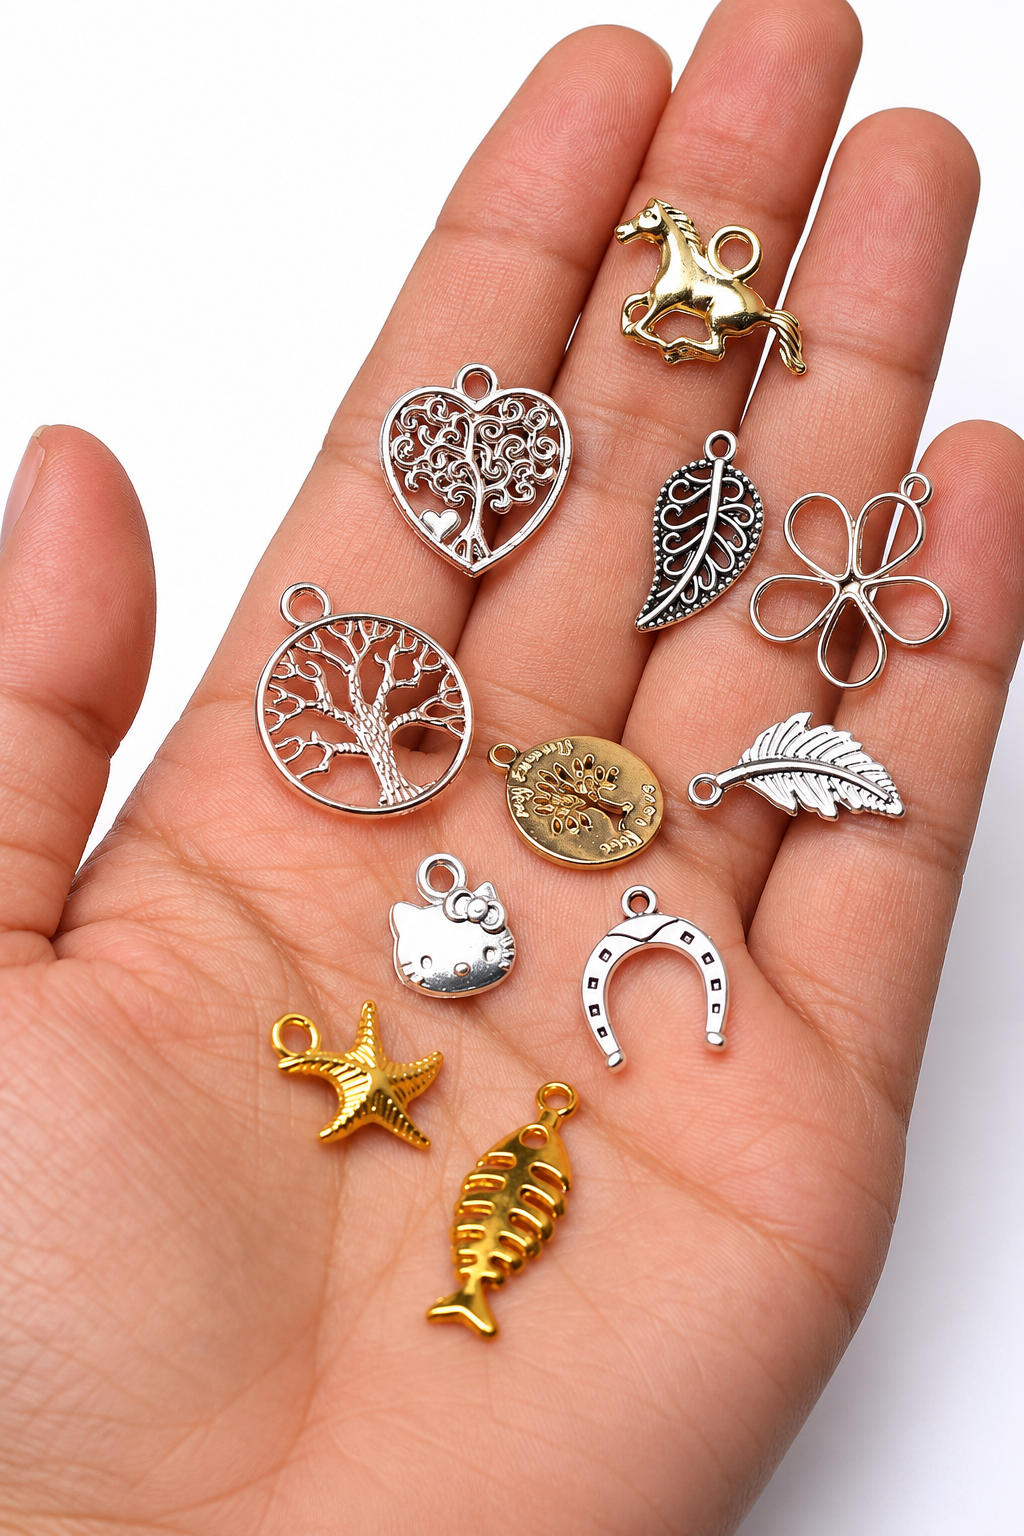
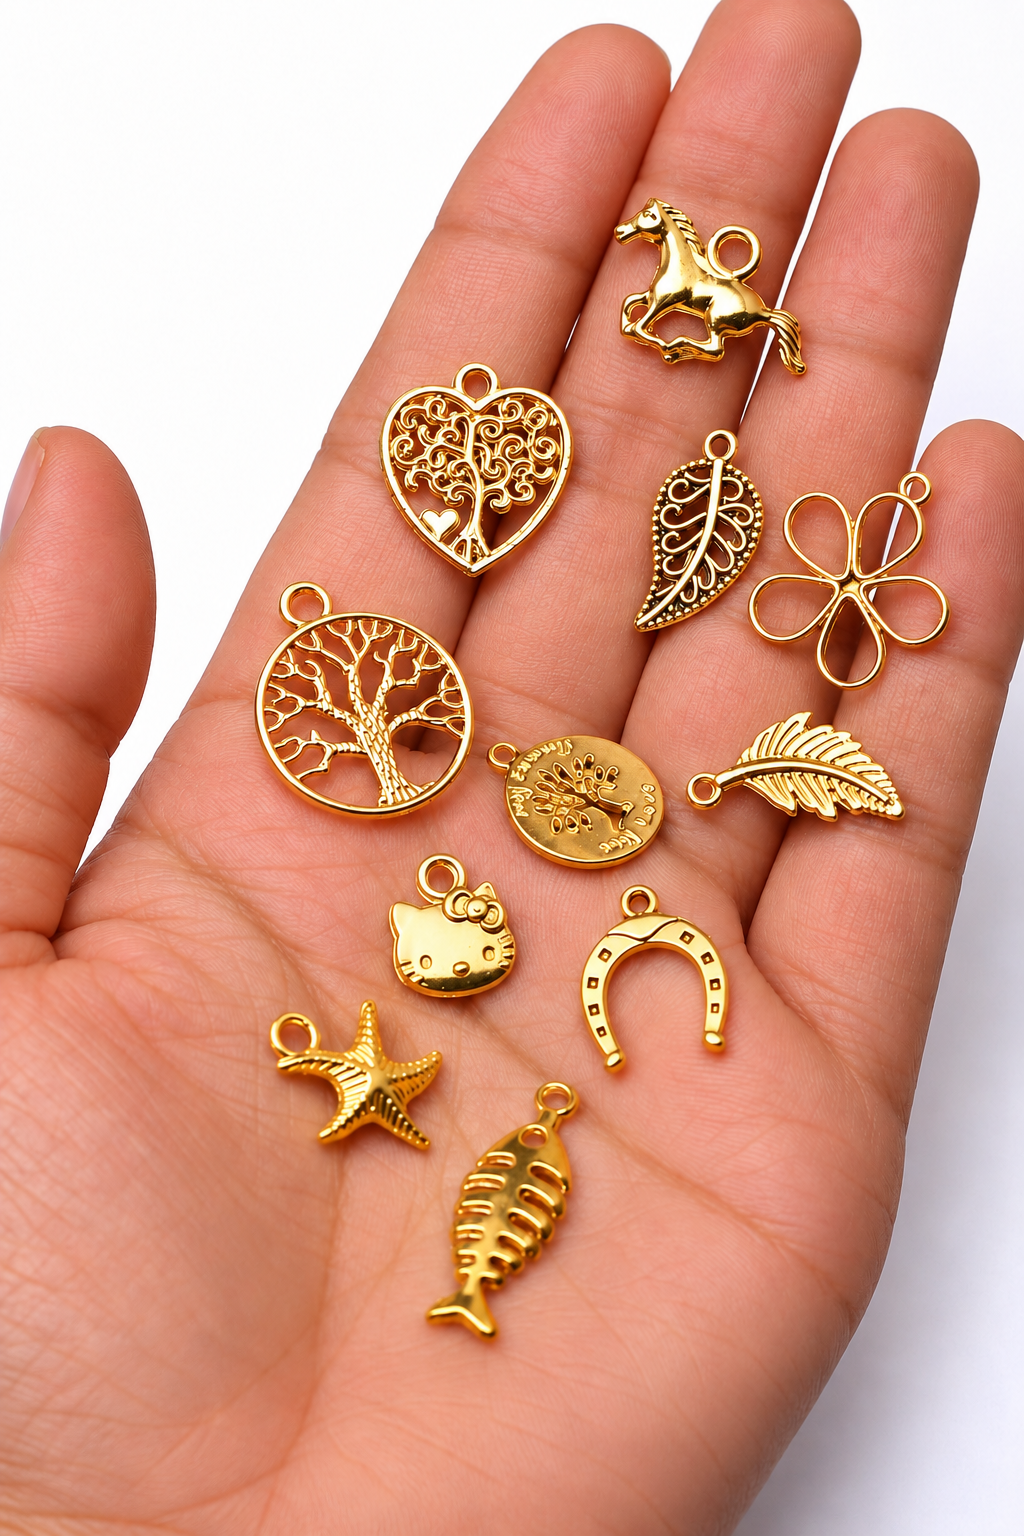
compleetd product detail page

diff --git a/src/data/products.js b/src/data/products.js
@@ -1,31 +1,28 @@
-// Sample products. Later this list will come from your backend (PostgreSQL) instead.
-// categoryId matches the ids in categories.js.  addedAt = date added (used for "Newest").
-// Put each photo in public/images/products/ using the file name written here.
 const products = [
-  { id: 1,  name: 'Initial Disc Necklace',             categoryId: 1, price: 6990,  isNew: true,  addedAt: '2026-10-20', image: '/images/products/initial-necklace-1.webp' },
-  { id: 2,  name: 'Rose Charm Bracelet',               categoryId: 6, price: 5490,  isNew: false, addedAt: '2026-09-02', image: '/images/products/charms-1.png' },
-  { id: 3,  name: 'Engraved Name Disc Earrings',       categoryId: 2, price: 8490,  isNew: true,  addedAt: '2026-10-18', image: '/images/products/engraved-1.png' },
-  { id: 4,  name: 'Celestial Birthstone Necklace',     categoryId: 3, price: 5990,  isNew: true,  addedAt: '2026-10-15', image: '/images/products/birthstone-1.png' },
-  { id: 5,  name: 'Engraved Heart Pendant',            categoryId: 6, price: 6290,  isNew: false, addedAt: '2026-08-21', image: '/images/products/charms-2.png' },
-  { id: 6,  name: 'The Floral Keepsake Gift Set',      categoryId: 4, price: 6890,  isNew: false, addedAt: '2026-08-05', image: '/images/products/gifts-1.png' },
-  { id: 7,  name: 'Engraved Signature Bangles',        categoryId: 2, price: 6490,  isNew: true,  addedAt: '2026-10-12', image: '/images/products/engraved-2.png' },
-  { id: 8,  name: 'Blush & Ruby Birthstone Ring',      categoryId: 3, price: 5790,  isNew: false, addedAt: '2026-09-10', image: '/images/products/birthstone-2.png' },
-  { id: 9,  name: 'Forever Yours Personalised Ring Set',categoryId: 5, price: 9990,  isNew: true,  addedAt: '2026-10-10', image: '/images/products/rings-1.jpeg' },
-  { id: 10, name: 'Anniversary Gift Box',              categoryId: 4, price: 11490, isNew: false, addedAt: '2026-07-28', image: '/images/products/gifts-2.png' },
-  { id: 11, name: 'The Heart of Gold Gift Set',        categoryId: 4, price: 4990,  isNew: true,  addedAt: '2026-10-08', image: '/images/products/birthstone-3.png' },
-  { id: 12, name: 'Golden Layers Initial Necklace',    categoryId: 1, price: 4290,  isNew: false, addedAt: '2026-09-18', image: '/images/products/initial-necklace-2.png' },
-  { id: 13, name: 'Engraved Forever Pendant Necklace', categoryId: 2, price: 7490,  isNew: false, addedAt: '2026-08-30', image: '/images/products/engraved-3.png' },
-  { id: 14, name: 'The Bestie Forever Gift Set',       categoryId: 4, price: 6990,  isNew: true,  addedAt: '2026-10-05', image: '/images/products/gifts-3.png' },
-  { id: 15, name: 'Heart Locket Necklace',             categoryId: 1, price: 7990,  isNew: false, addedAt: '2026-09-25', image: '/images/products/initial-necklace-3.png' },
-  { id: 16, name: 'Enchanted Stories Charm',           categoryId: 6, price: 8990,  isNew: true,  addedAt: '2026-10-02', image: '/images/products/charms-3.png' },
-  { id: 17, name: 'Personalised Name Ring',            categoryId: 5, price: 10490, isNew: false, addedAt: '2026-08-14', image: '/images/products/rings-2.png' },
-  { id: 18, name: 'Two Souls Personalised Name Ring',  categoryId: 5, price: 7990,  isNew: true,  addedAt: '2026-09-30', image: '/images/products/rings-3.png' },
-  { id: 19, name: 'Captured Memories Oval Locket',     categoryId: 7, price: 12490, isNew: false, addedAt: '2026-07-15', image: '/images/products/keepsakes-1.png' },
-  { id: 20, name: 'Forever in My Heart Locket',        categoryId: 7, price: 8990,  isNew: true,  addedAt: '2026-09-28', image: '/images/products/keepsakes-2.png' },
-  { id: 21, name: 'Rosegold Filigree Heart Locket',    categoryId: 7, price: 14990, isNew: false, addedAt: '2026-08-01', image: '/images/products/keepsakes-3.png' },
-  { id: 22, name: 'Midnight Glam Set',                 categoryId: 8, price: 12990, isNew: true,  addedAt: '2026-09-26', image: '/images/products/matching-1.png' },
-  { id: 23, name: 'Feather Grace Set',                 categoryId: 8, price: 13990, isNew: false, addedAt: '2026-08-18', image: '/images/products/matching-2.png' },
-  { id: 24, name: 'Gold Hush Set',                     categoryId: 8, price: 14990, isNew: true,  addedAt: '2026-09-22', image: '/images/products/matching-3.png' },
+  { id: 1,  name: 'Initial Disc Necklace',             categoryId: 1, price: 6990,  isNew: true,  addedAt: '2026-10-20', image: '/images/products/initial-necklace-1.webp', silverImage: '/images/products/initial-necklace-1-silver.png' },
+  { id: 2,  name: 'Rose Charm Bracelet',               categoryId: 6, price: 5490,  isNew: false, addedAt: '2026-09-02', image: '/images/products/charms-1.png',            silverImage: '/images/products/charms-1-silver.png' },
+  { id: 3,  name: 'Engraved Name Disc Earrings',       categoryId: 2, price: 8490,  isNew: true,  addedAt: '2026-10-18', image: '/images/products/engraved-1.png',          silverImage: '/images/products/engraved-1-silver.png' },
+  { id: 4,  name: 'Celestial Birthstone Necklace',     categoryId: 3, price: 5990,  isNew: true,  addedAt: '2026-10-15', image: '/images/products/birthstone-1.png',        silverImage: '/images/products/birthstone-1-silver.png' },
+  { id: 5,  name: 'Engraved Heart Pendant',            categoryId: 6, price: 6290,  isNew: false, addedAt: '2026-08-21', image: '/images/products/charms-2.png',            silverImage: '/images/products/charms-2-silver.png' },
+  { id: 6,  name: 'The Floral Keepsake Gift Set',      categoryId: 4, price: 6890,  isNew: false, addedAt: '2026-08-05', image: '/images/products/gifts-1.png',             silverImage: '/images/products/gifts-1-silver.png' },
+  { id: 7,  name: 'Engraved Signature Bangles',        categoryId: 2, price: 6490,  isNew: true,  addedAt: '2026-10-12', image: '/images/products/engraved-2.png',          silverImage: '/images/products/engraved-2-silver.png' },
+  { id: 8,  name: 'Blush & Ruby Birthstone Ring',      categoryId: 3, price: 5790,  isNew: false, addedAt: '2026-09-10', image: '/images/products/birthstone-2.png',        silverImage: '/images/products/birthstone-2-silver.png' },
+  { id: 9,  name: 'Forever Yours Personalised Ring Set',categoryId: 5, price: 9990,  isNew: true,  addedAt: '2026-10-10', image: '/images/products/rings-1.png',            silverImage: '/images/products/rings-1-silver.jpeg' },
+  { id: 10, name: 'Anniversary Gift Box',              categoryId: 4, price: 11490, isNew: false, addedAt: '2026-07-28', image: '/images/products/gifts-2.png',             silverImage: '/images/products/gifts-2-silver.png' },
+  { id: 11, name: 'The Heart of Gold Gift Set',        categoryId: 4, price: 4990,  isNew: true,  addedAt: '2026-10-08', image: '/images/products/birthstone-3.png',        silverImage: '/images/products/birthstone-3-silver.png' },
+  { id: 12, name: 'Golden Layers Initial Necklace',    categoryId: 1, price: 4290,  isNew: false, addedAt: '2026-09-18', image: '/images/products/initial-necklace-2.png',  silverImage: '/images/products/initial-necklace-2-silver.png' },
+  { id: 13, name: 'Engraved Forever Pendant Necklace', categoryId: 2, price: 7490,  isNew: false, addedAt: '2026-08-30', image: '/images/products/engraved-3.png',          silverImage: '/images/products/engraved-3-silver.png' },
+  { id: 14, name: 'The Bestie Forever Gift Set',       categoryId: 4, price: 6990,  isNew: true,  addedAt: '2026-10-05', image: '/images/products/gifts-3.png',             silverImage: '/images/products/gifts-3-silver.png' },
+  { id: 15, name: 'Heart Locket Necklace',             categoryId: 1, price: 7990,  isNew: false, addedAt: '2026-09-25', image: '/images/products/initial-necklace-3.png',  silverImage: '/images/products/initial-necklace-3-silver.png' },
+  { id: 16, name: 'Enchanted Stories Charm',           categoryId: 6, price: 8990,  isNew: true,  addedAt: '2026-10-02', image: '/images/products/charms-3.png',            silverImage: '/images/products/charms-3-silver.png' },
+  { id: 17, name: 'Personalised Name Ring',            categoryId: 5, price: 10490, isNew: false, addedAt: '2026-08-14', image: '/images/products/rings-2.png',             silverImage: '/images/products/rings-2-silver.png' },
+  { id: 18, name: 'Two Souls Personalised Name Ring',  categoryId: 5, price: 7990,  isNew: true,  addedAt: '2026-09-30', image: '/images/products/rings-3.png',             silverImage: '/images/products/rings-3-silver.png' },
+  { id: 19, name: 'Captured Memories Oval Locket',     categoryId: 7, price: 12490, isNew: false, addedAt: '2026-07-15', image: '/images/products/keepsakes-1.png',         silverImage: '/images/products/keepsakes-1-silver.png' },
+  { id: 20, name: 'Forever in My Heart Locket',        categoryId: 7, price: 8990,  isNew: true,  addedAt: '2026-09-28', image: '/images/products/keepsakes-2.png',         silverImage: '/images/products/keepsakes-2-silver.png' },
+  { id: 21, name: 'Rosegold Filigree Heart Locket',    categoryId: 7, price: 14990, isNew: false, addedAt: '2026-08-01', image: '/images/products/keepsakes-3.png',         silverImage: '/images/products/keepsakes-3-silver.png' },
+  { id: 22, name: 'Midnight Glam Set',                 categoryId: 8, price: 12990, isNew: true,  addedAt: '2026-09-26', image: '/images/products/matching-1.png',          silverImage: '/images/products/matching-1-silver.png' },
+  { id: 23, name: 'Feather Grace Set',                 categoryId: 8, price: 13990, isNew: false, addedAt: '2026-08-18', image: '/images/products/matching-2.png',          silverImage: '/images/products/matching-2-silver.png' },
+  { id: 24, name: 'Gold Hush Set',                     categoryId: 8, price: 14990, isNew: true,  addedAt: '2026-09-22', image: '/images/products/matching-3.png',          silverImage: '/images/products/matching-3-silver.png' },
 ];
 
 export default products;

diff --git a/src/components/ui/product/ProductInfo.jsx b/src/components/ui/product/ProductInfo.jsx
@@ -3,5 +3,70 @@ import { Bookmark } from 'lucide-react';
 import { formatPrice } from '../../../utils/format';
 import { whatsappLink } from '../../../config';
 import { defaultContent } from '../../../data/productContent';
-import './ProductInfo.css';
 import Accordion from './Accordion';
+import './ProductInfo.css';
+
+// Everything beside the picture: name, price, colour, button and the text sections
+export default function ProductInfo({ product, colors, selected, onSelect }) {
+  const content = { ...defaultContent, ...(product.content || {}) };
+  const finish = colors.find((c) => c.key === selected).name;   // the chosen colour's name
+  const [saved, setSaved] = useState(false);
+
+  // Cart comes later. For now the button opens WhatsApp with the choices already written.
+  const addToCart = () => {
+    const lines = [
+      `Hi Lune & Luster! I'd like to order: ${product.name}`,
+      `Colour: ${finish}`,
+    ];
+    window.open(whatsappLink(lines.join('\n')), '_blank', 'noopener');
+  };
+
+  return (
+    <div className="pinfo">
+      <h1 className="pinfo-title">{product.name}</h1>
+
+      <div className="pinfo-price">
+        <span>{formatPrice(product.price)}</span>
+        <button onClick={() => setSaved(!saved)} aria-label="Save for later" className={saved ? 'on' : ''}>
+          <Bookmark size={17} strokeWidth={1.5} fill={saved ? 'currentColor' : 'none'} />
+        </button>
+      </div>
+
+      <hr className="pinfo-rule" />
+
+      {/* the two colours: just a circle each */}
+      <div className="pinfo-group">
+        <div className="pinfo-label">Colour <em>{finish}</em></div>
+        <div className="pinfo-swatches">
+          {colors.map((c) => (
+            <button
+              key={c.key}
+              className={c.key === selected ? 'on' : ''}
+              onClick={() => onSelect(c.key)}
+              aria-label={c.name}
+              title={c.name}
+              style={{ backgroundColor: c.color }}
+            />
+          ))}
+        </div>
+      </div>
+
+      <button className="pinfo-cart" onClick={addToCart}>Add to Cart</button>
+
+      {/* the text sections */}
+      <div className="pinfo-acc">
+        <Accordion title="Product details" defaultOpen>
+          <span className="acc-link">{content.highlight}</span>
+          <p>{content.description}</p>
+          <span className="acc-strong">Care instructions</span>
+          {content.care.map((line) => <p key={line}>{line}</p>)}
+          <span className="acc-strong">Material</span>
+          <p>{content.material}</p>
+        </Accordion>
+        <Accordion title="Sizing & fit"><p>{content.sizing}</p></Accordion>
+        <Accordion title="Return policy"><p>{content.returns}</p></Accordion>
+        <Accordion title="Shipping"><p>{content.shipping}</p></Accordion>
+      </div>
+    </div>
+  );
+}

diff --git a/src/components/ui/product/ProductInfo.css b/src/components/ui/product/ProductInfo.css
@@ -1,0 +1,21 @@
+.pinfo-title { font-family: var(--serif); font-weight: 500; font-size: clamp(1.5rem, 2.2vw, 1.9rem); letter-spacing: 0.16em; line-height: 1.2; }
+
+.pinfo-price { display: flex; align-items: center; justify-content: space-between; margin-top: 0.7rem; font-family: var(--serif); font-size: 1.15rem; letter-spacing: 0.06em; color: var(--gold-dark); }
+.pinfo-price button { color: var(--muted); transition: color 0.3s; }
+.pinfo-price button:hover, .pinfo-price button.on { color: var(--gold-dark); }
+
+.pinfo-rule { margin: 1.4rem 0; border: 0; border-top: 1px solid var(--line); }
+
+.pinfo-group { margin-bottom: 1.5rem; }
+.pinfo-label { display: block; margin-bottom: 0.8rem; font-family: var(--serif); font-size: 1.05rem; letter-spacing: 0.06em; color: var(--ink); }
+.pinfo-label em { margin-left: 0.5rem; font-style: normal; font-family: var(--sans); font-size: 0.64rem; letter-spacing: 0.18em; color: var(--muted); }
+
+/* the colour circles */
+.pinfo-swatches { display: flex; gap: 0.9rem; }
+.pinfo-swatches button { width: 2rem; height: 2rem; border-radius: 50%; border: 1px solid var(--line); outline: 1px solid transparent; outline-offset: 3px; transition: outline-color 0.25s, transform 0.25s; }
+.pinfo-swatches button:hover { transform: scale(1.08); }
+.pinfo-swatches button.on { outline-color: var(--gold-dark); }
+
+/* the big button */
+.pinfo-cart { width: 100%; height: 3.3rem; margin: 0.4rem 0 2rem; font-size: 0.74rem; letter-spacing: 0.26em; text-transform: uppercase; background: var(--gold); color: #fff; border: 1px solid var(--gold); transition: background 0.3s, border-color 0.3s, box-shadow 0.3s; }
+.pinfo-cart:hover { background: var(--gold-dark); border-color: var(--gold-dark); box-shadow: 0 10px 24px rgba(166, 124, 82, 0.25); }

diff --git a/src/pages/ProductDetail.jsx b/src/pages/ProductDetail.jsx
@@ -1,23 +1,22 @@
 import { Link, useParams } from 'react-router-dom';
-import { usePageTitle } from '../hooks/usePageTitle';
-import Products from '../data/products';
+import usePageTitle from '../hooks/usePageTitle';
+import products from '../data/products';
 import ProductView from '../components/ui/product/ProductView';
 
-//page for one product
+// page for one product:  /product/3
 export default function ProductDetail() {
     const { id } = useParams();
-    const products = products.find((p) => p.id === Number(id));
+    const product = products.find((p) => p.id === Number(id));
 
-    usePageTitle(product ? product.name : 'product not found');
+    usePageTitle(product ? product.name : 'Product not found');
 
     if (!product) {
         return (
             <section className="section center">
-                {/*groups the msg n the btn together*/}
                 <div className="container">
                     <h1 className="section-title">Product Not Found</h1>
-                    <p style={{margin: '1rem 0 2rem', color: 'var(--muted' }}>This piece not longer exists</p>
-                    <Link to="/shop" className="btn tbn-gold">Back to Shop</Link>
+                    <p style={{ margin: '1rem 0 2rem', color: 'var(--muted)' }}>This piece no longer exists.</p>
+                    <Link to="/shop" className="btn btn-gold">Back to Shop</Link>
                 </div>
             </section>
         );

diff --git a/src/components/ui/product/ProductView.jsx b/src/components/ui/product/ProductView.jsx
@@ -5,22 +5,25 @@ import ProductInfo from './ProductInfo';
 import './ProductView.css';
 
 export default function ProductView({ product, imagesOnRight = false }) {
-    //the two colors with its pictures
-    const colors = finishes.map((f) => ({ ...f, image: product.images?.[f.key] || }));
+    // the two colours, each with its own picture
+    const colors = finishes.map((f) => ({
+        ...f,
+        image: f.key === 'silver' ? product.silverImage || product.image : product.image,
+    }));
 
     const [selected, setSelected] = useState(colors[0].key);
-    
+
     return (
         <section className={`pview ${imagesOnRight ? 'pview--flip' : ''}`}>
             <div className="pview-gallery">
-                <ProductGallery name={product.name} color={colors} selected={selected} />
-            </div>  
+                <ProductGallery name={product.name} colors={colors} selected={selected} />
+            </div>
 
             <div className="pview-side">
                 <div className="pview-sticky">
                     <ProductInfo product={product} colors={colors} selected={selected} onSelect={setSelected} />
                 </div>
-            </div>  
+            </div>
         </section>
     );
 }

diff --git a/src/components/ui/product/Accordion.css b/src/components/ui/product/Accordion.css
@@ -1,0 +1,17 @@
+.acc { border-top: 1px solid var(--line); }
+.acc:last-child { border-bottom: 1px solid var(--line); }
+
+.acc-head { width: 100%; display: flex; align-items: center; justify-content: space-between; padding: 1.15rem 0; font-size: 0.7rem; letter-spacing: 0.2em; color: var(--muted); text-align: left; transition: color 0.3s; }
+.acc-head:hover, .acc.open .acc-head { color: var(--ink); }
+
+/* smooth open and close */
+.acc-body { display: grid; grid-template-rows: 0fr; transition: grid-template-rows 0.4s ease; }
+.acc.open .acc-body { grid-template-rows: 1fr; }
+.acc-inner { overflow: hidden; }
+
+/* the text inside stays easy to read (not uppercase) */
+.acc-inner { font-size: 0.86rem; line-height: 1.85; color: var(--muted); text-transform: none; letter-spacing: 0.01em; }
+.acc-inner > *:last-child { margin-bottom: 1.3rem; }
+.acc-inner p { margin-bottom: 0.9rem; }
+.acc-inner .acc-strong { display: block; margin-bottom: 0.9rem; font-weight: 500; color: var(--ink); }
+.acc-inner .acc-link { display: inline-block; margin-bottom: 1rem; font-weight: 500; color: var(--ink); text-decoration: underline; text-underline-offset: 3px; text-transform: uppercase; letter-spacing: 0.04em; font-size: 0.78rem; }

diff --git a/src/components/ui/product/ProductGallery.css b/src/components/ui/product/ProductGallery.css
@@ -1,10 +1,3 @@
-.pgal { 
-    position: relative; 
-    display: block; 
-    width: 100%; 
-    aspect-ratio: 2 / 3; 
-    overflow: hidden; 
-    background: var(--sand); 
 
 /* the two colours are stacked only one is visible. The change is a fade. */
 .pgal-layer { 
@@ -37,7 +30,18 @@
     color: var(--ink); 
 }
 
-/* phones: a little shorter so it fits the screen */
-@media (max-width: 900px) { 
-    .pgal { aspect-ratio: 4 / 5; } 
+.pgal {
+  position: relative;
+  display: block;
+  width: 100%;
+  height: calc(100vh - 76px);
+  height: calc(100svh - 76px);      /* phones: the visible screen height */
+  overflow: hidden;
+  background: var(--sand);
+  cursor: default;
+}
+
+/* phones: a shorter picture so the details start sooner */
+@media (max-width: 900px) {
+  .pgal { height: 70svh; }
 }

diff --git a/src/components/ui/product/Accordion.jsx b/src/components/ui/product/Accordion.jsx
@@ -1,0 +1,17 @@
+import { useState } from 'react';
+import { Plus, Minus } from 'lucide-react';
+import './Accordion.css';
+
+// A heading that opens and closes its text:  PRODUCT DETAILS  —
+export default function Accordion({ title, defaultOpen = false, children }) {
+  const [open, setOpen] = useState(defaultOpen);
+  return (
+    <div className={`acc ${open ? 'open' : ''}`}>
+      <button className="acc-head" onClick={() => setOpen(!open)} aria-expanded={open}>
+        <span>{title}</span>
+        {open ? <Minus size={15} strokeWidth={1.4} /> : <Plus size={15} strokeWidth={1.4} />}
+      </button>
+      <div className="acc-body"><div className="acc-inner">{children}</div></div>
+    </div>
+  );
+}

diff --git a/src/App.jsx b/src/App.jsx
@@ -3,6 +3,7 @@ import MainLayout from './components/layouts/MainLayout';
 import Home from './pages/Home';
 import Shop from './pages/Shop';
 import Contact from './pages/Contact';
+import ProductDetail from './pages/ProductDetail';
 
 export default function App() {
   return (
@@ -11,6 +12,7 @@ export default function App() {
         <Route index element={<Home />} />
         <Route path="shop" element={<Shop />} />
         <Route path="contact" element={<Contact />} />
+        <Route path="product/:id" element={<ProductDetail />} />
       </Route>
     </Routes>
   );

diff --git a/src/components/ui/product/ProductView.css b/src/components/ui/product/ProductView.css
@@ -5,11 +5,16 @@
 }
 
 .pview-sticky {
-    position: sticky;
-    top: 76px;
-    padding: 3.5rem clamp(1.5rem, 5vw, 5.5rem) 0;
+  height: calc(100vh - 76px);
+  height: calc(100svh - 76px);
+  overflow-y: auto;
+  display: flex;
+  flex-direction: column;
+  padding: 2.5rem clamp(1.5rem, 5vw, 5.5rem);
+  scrollbar-width: none;
 }
-
+.pview-sticky::-webkit-scrollbar { display: none; }
+.pview-sticky > * { margin: auto 0; }   /* centres the content up and down */
 /* picture on the right instead */
 .pview--flip {
   grid-template-columns: 40% 60%;
